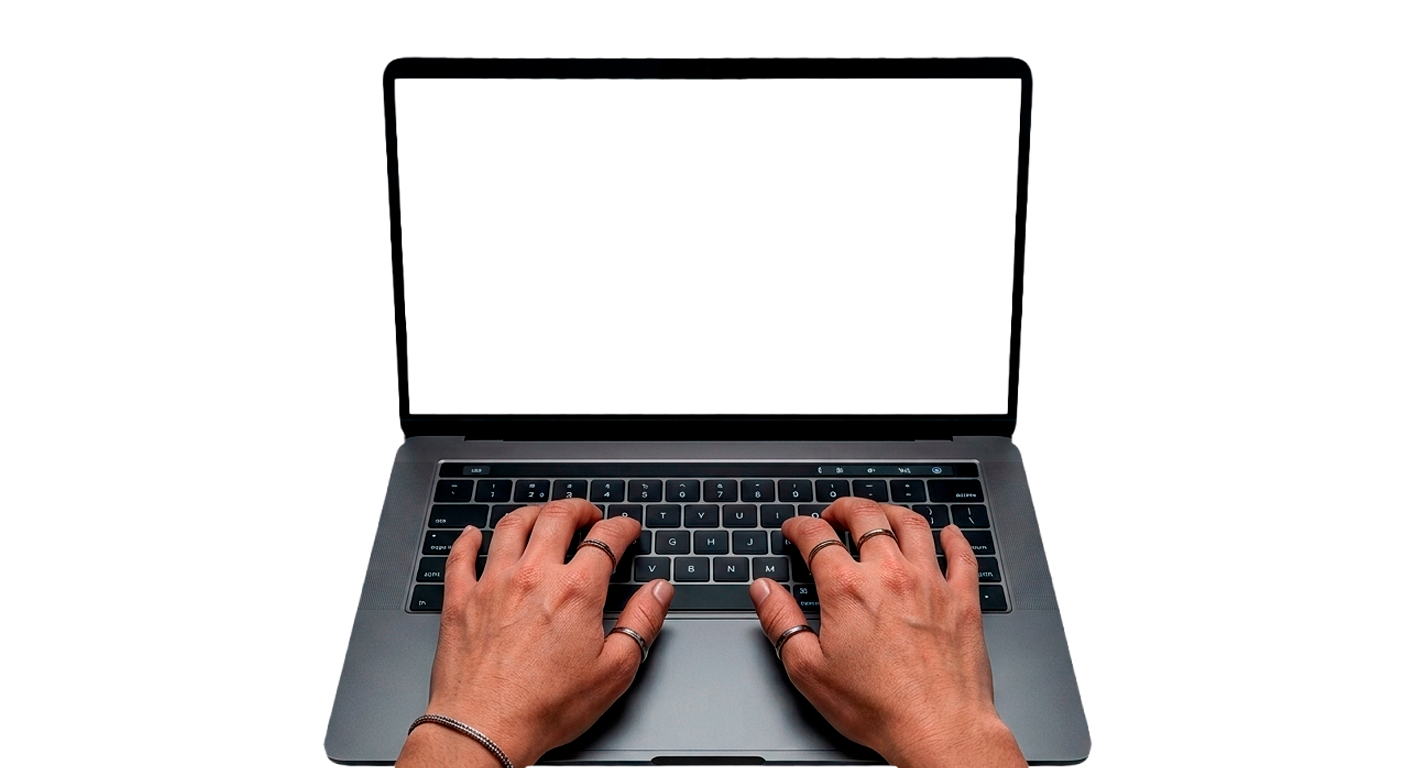
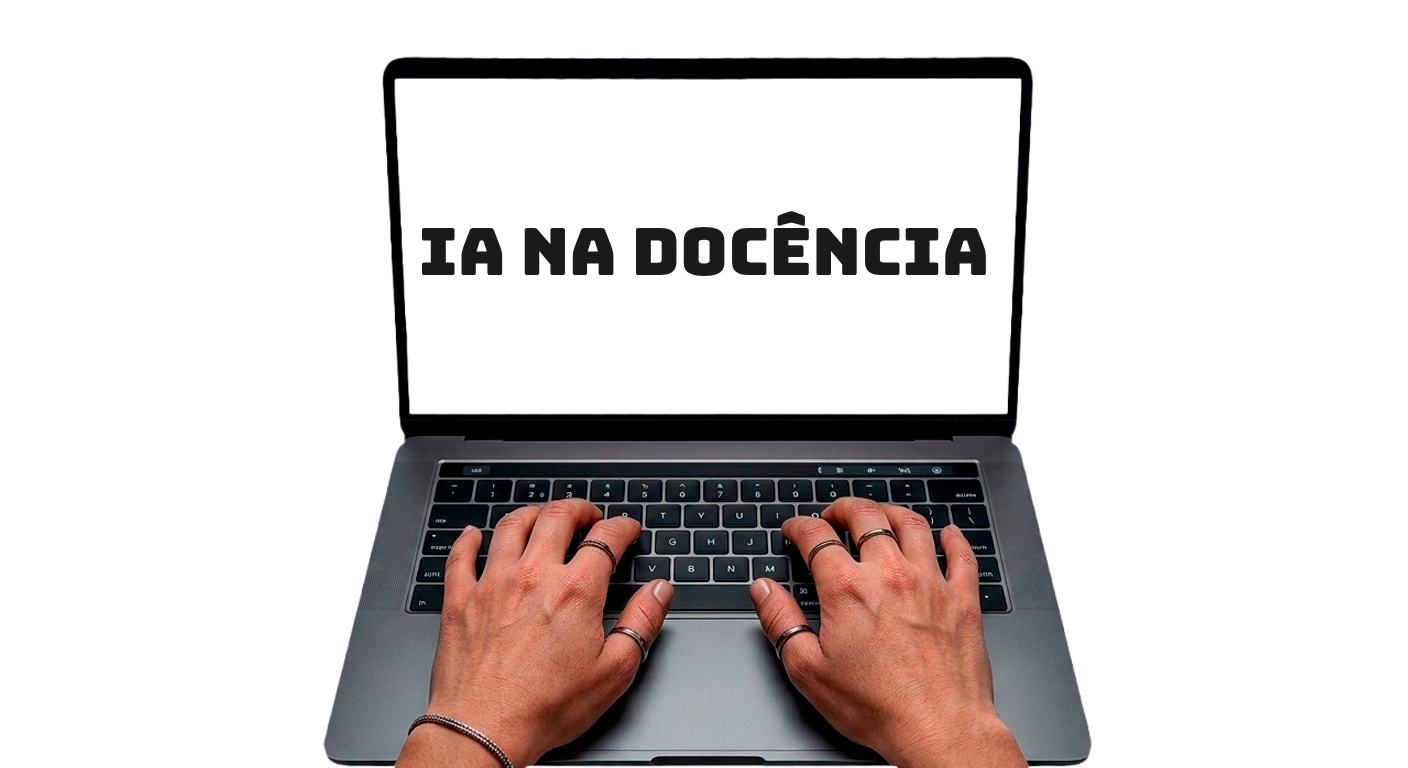
[add] guia rag + componente de pagina em contrução + atualização dos links do youtube

Changed region(s): [[0.2812, 0.2812, 0.7188, 0.375]]

diff --git a/ia-na-docencia/src/css/custom.css b/ia-na-docencia/src/css/custom.css
@@ -115,17 +115,6 @@
   color: #ffffff !important;
 }
 
-.hero-notebook-title {
-  font-family: 'Bungee', system-ui;
-  font-size: 60px;
-  text-align: center;
-  position: absolute;
-  top: 35%; 
-  left: 50%;
-  transform: translate(-50%, -50%);
-  width: 80%;
-}
-
 .hero-text-col h2 {
   font-family: 'Cantora One', sans-serif !important;
   font-size: 50px !important;
@@ -322,6 +311,34 @@ display: block;
   -moz-osx-font-smoothing: grayscale;
 }
 
+.under-construction-container {
+  display: flex;
+  flex-direction: row; 
+  align-items: center;
+  gap: 30px; 
+  padding: 40px;
+  margin: 30px 0;
+  background-color: var(--ifm-background-surface); 
+  border: 2px dashed var(--ifm-color-emphasis-600);
+  border-radius: 12px;
+}
+
+.under-construction-gif {
+  max-width: 200px;
+  border-radius: 10px;
+  flex-shrink: 0; 
+}
+
+.under-construction-text h2 {
+  margin-top: 0;
+  margin-bottom: 15px;
+}
+
+.under-construction-text p {
+  margin: 0;
+  font-size: 1.1rem;
+}
+
 @media (max-width: 1024px) {
   .hero-container {
     flex-direction: column;
@@ -332,12 +349,6 @@ display: block;
   .hero-image-col, .hero-text-col {
     flex: 1 1 100%;
     width: 100%;
-  }
-
-  .hero-notebook-title {
-    font-size: clamp(35px, 3.5vw, 26px); 
-    top: 30%;
-    width: 70%; 
   }
 
   .hero-image-col img {
@@ -372,6 +383,12 @@ display: block;
   .ia-card-grid {
     grid-template-columns: repeat(2, 1fr);
   }
+
+  .under-construction-container {
+    flex-direction: column; 
+    text-align: center;     
+    padding: 25px 15px;
+  }
 }
 
 @media (max-width: 576px) {
@@ -392,12 +409,6 @@ display: block;
   .hero-text-col h2 {
     font-size: 22px !important; 
     padding: 0px 10px;
-  }
-
-  .hero-notebook-title {
-    font-size: clamp(24px, 4.5vw, 18px); 
-    top: 26%;
-    width: 70%;
   }
 
   .feature-card-desc {

diff --git a/ia-na-docencia/src/components/UnderConstruction.js b/ia-na-docencia/src/components/UnderConstruction.js
@@ -1,0 +1,20 @@
+import React from 'react';
+
+export default function UnderConstruction() {
+  return (
+    <div className="under-construction-container">
+      <img 
+        src={require('@site/static/img/wait.gif').default} 
+        alt="Trabalhando..." 
+        className="under-construction-gif" 
+      />
+      <div className="under-construction-text">
+        <h2>Página em Construção 🚧</h2>
+        <p>
+          Estamos preparando este conteúdo ainda!<br/>
+          Em breve você encontrará todas as informações aqui :)
+        </p>
+      </div>
+    </div>
+  );
+}

diff --git a/ia-na-docencia/src/pages/index.js b/ia-na-docencia/src/pages/index.js
@@ -41,7 +41,6 @@ export default function Home() {
           <div className="container hero-container">
             <div className="hero-image-col">
               <img src={useBaseUrl('/img/pc.png')} alt="Notebook"/>
-              <h1 className="hero-notebook-title">IA NA DOCÊNCIA</h1>
             </div>
             <div className="hero-text-col">
               <h2>Entenda como funciona e<br/>tudo que ela pode fazer</h2>

diff --git a/ia-na-docencia/docs/rag/01-o-que-e-rag.md b/ia-na-docencia/docs/rag/01-o-que-e-rag.md
@@ -1,0 +1,45 @@
+---
+id: o-que-e-rag
+title: O que é RAG?
+sidebar_position: 1
+---
+
+# O que é RAG?
+
+Os Grandes Modelos de Linguagem (LLMs), como o ChatGPT, Gemini e Claude, funcionam prevendo as palavras mais prováveis. Eles possuem um grande conhecimento, porém limitado, pois não têm acesso a informações muito específicas e privadas, e seu conhecimento congela na última data em que foram treinados. Então, se o usuário perguntar a uma IA genérica sobre uma norma específica da sua empresa ou sobre um artigo científico recém-publicado, a IA provavelmente inventará uma resposta (fenômeno conhecido como alucinação).
+
+A Geração Aumentada por Recuperação (RAG - Retrieval-Augmented Generation) é a técnica criada para resolver exatamente esse problema. Ela conecta a inteligência de conversação da IA a um banco de dados confiável e específico.
+
+:::info[Analogia]
+    Pense que uma IA convencional é como um aluno fazendo uma prova de memória, ele pode esquecer um detalhe ou chutar a resposta errada (Alucinação). Enquanto o RAG é como se fosse um aluno fazendo prova com consulta, antes de responder ele olha os livros e verifica a resposta.
+:::
+
+## Como funciona na prática?
+
+O processo acontece em três etapas invisíveis para o usuário, que ocorrem em questão de segundos:
+
+* **Recuperação (Retrieval):** Quando uma pergunta é feita, o sistema não envia direto para a IA responder. Primeiro, ele transforma a pergunta em uma fórmula matemática e faz uma varredura em um banco de dados. O sistema retorna apenas os parágrafos que têm o mesmo sentido da pergunta.
+
+* **Aumento (Augmentation):** O sistema junta a pergunta original feita pelo usuário com os parágrafos que acabou de encontrar no banco de dados. 
+
+* **Geração (Generation):** Esse agrupamento de pergunta e textos de referência é enviado para o modelo de linguagem (LLM). A IA lê os textos fornecidos e gera uma resposta em linguagem natural, baseada exclusivamente naqueles documentos e citando a fonte de onde tirou a informação.
+
+## As Vantagens do RAG 
+
+A maior vantagem do RAG é que você pode enviar os seus próprios documentos para a IA em vez de depender do conhecimento genérico da internet. A inteligência artificial passa a trabalhar com o material que você forneceu e insere a referência na qual a resposta foi fundamentada. Além disso, diminui as alucinações: se a resposta não estiver no seu material, ela diz que não sabe em vez de inventar.
+
+## Como o RAG está disponível nas ferramentas atuais?
+
+As principais empresas de inteligência artificial já embutiram essa arquitetura em suas ferramentas comerciais:
+
+* **Google NotebookLM:** Funciona como um "caderno virtual" onde o usuário faz o upload de arquivos, como PDFs, links e anotações. A ferramenta analisa apenas o que foi enviado para criar resumos, responder dúvidas sobre os textos e pode até gerar um podcast em áudio debatendo o conteúdo, garantindo que as respostas não saiam do escopo dos materiais originais.
+
+* **ChatGPT (GPTs Customizados):** Na versão paga da OpenAI, é possível criar um "GPT" personalizado. O usuário faz o upload de documentos e configura o modelo com instruções específicas para que ele responda e atue baseando-se exclusivamente naquela base de conhecimento fornecida.
+
+* **Claude (Projects):** O modelo da Anthropic possui o recurso "Projects", onde é possível anexar documentos e definir instruções de comportamento. O Claude usará a técnica de RAG para gerar as respostas sem misturar os dados com informações externas.
+
+## Referências Bibliográficas
+* **LEWIS, Patrick et al. (2020).** *Retrieval-Augmented Generation for Knowledge-Intensive NLP Tasks*. Disponível em: [https://arxiv.org/abs/2005.11401](https://arxiv.org/abs/2005.11401).
+* **AMAZON WEB SERVICES (AWS).** *O que é a RAG? - Explicação sobre a geração aumentada de recuperação*. Disponível em: [https://aws.amazon.com/pt/what-is/retrieval-augmented-generation/](https://aws.amazon.com/pt/what-is/retrieval-augmented-generation/).
+* **IBM.** *O que é geração aumentada de recuperação (RAG)?*. Disponível em: [https://www.ibm.com/br-pt/topics/retrieval-augmented-generation](https://www.ibm.com/br-pt/topics/retrieval-augmented-generation).
+* **ORACLE.** *O que é a Geração Aumentada de Recuperação (RAG)?*. Disponível em: [https://www.oracle.com/br/artificial-intelligence/generative-ai/retrieval-augmented-generation-rag/](https://www.oracle.com/br/artificial-intelligence/generative-ai/retrieval-augmented-generation-rag/).

diff --git a/ia-na-docencia/docs/entendendo-ia/01-o-que-e-ia.md b/ia-na-docencia/docs/entendendo-ia/01-o-que-e-ia.md
@@ -54,7 +54,7 @@ O motivo de ela se destacar tanto é que, enquanto a IA tradicional era usada pa
 Alimentada por Grandes Modelos de Linguagem (os chamados *LLMs*), ela compreende o nosso idioma quase como um humano. Com um simples prompt as ferramentas como o ChatGPT, Gemini, Claude, DeepSeak entre muitos outros conseguem traduzir artigos, compor músicas, desenhar imagens inexistentes e até resumir documentos PDF inteiros em segundos.
 
 ---
-<YouTubeVideo link="https://www.youtube.com/watch?v=nVgh-gLg3zM" />
+<YouTubeVideo link="https://www.youtube.com/watch?v=nyN57Xsihxk" />
 ---
 
 ## Referências Bibliográficas

diff --git a/ia-na-docencia/docs/entendendo-ia/04-historia-da-ia.md b/ia-na-docencia/docs/entendendo-ia/04-historia-da-ia.md
@@ -3,6 +3,7 @@ id: historia-da-ia
 title: História
 sidebar_position: 4
 ---
+import YouTubeVideo from '@site/src/components/YouTube';
 
 # Como a Inteligência Artificial surgiu?
 
@@ -60,6 +61,8 @@ Utilizando essa arquitetura, a OpenAI lançou o ChatGPT em **2022**, difundindo 
 
 A evolução desses modelos culminou, em **2025**, numa tecnologia diversa, tornando a IA generativa eficiente não apenas na elaboração de textos estruturados, mas também no processamento de voz, imagens e vídeos.
 
+---
+<YouTubeVideo link="https://www.youtube.com/watch?v=SQIv_yX93Rc" />
 ---
 
 ## Referências Bibliográficas

diff --git a/ia-na-docencia/docs/rag/index.md b/ia-na-docencia/docs/rag/index.md
@@ -5,3 +5,19 @@ sidebar_position: 4
 pagination_next: null
 pagination_prev: null
 ---
+
+import IndexCards from '@site/src/components/IndexCards';
+
+# RAG
+
+Selecione um dos tópicos abaixo para iniciar seus estudos:
+
+<IndexCards 
+  items={[
+    {
+      title: 'O que é RAG?',
+      image: '/img/rag.jpeg',
+      link: '/docs/rag/o-que-e-rag'
+    }
+  ]}
+/>

diff --git a/ia-na-docencia/docs/legislacao/index.md b/ia-na-docencia/docs/legislacao/index.md
@@ -5,3 +5,7 @@ sidebar_position: 2
 pagination_next: null
 pagination_prev: null
 ---
+
+import UnderConstruction from '@site/src/components/UnderConstruction';
+
+<UnderConstruction/>
